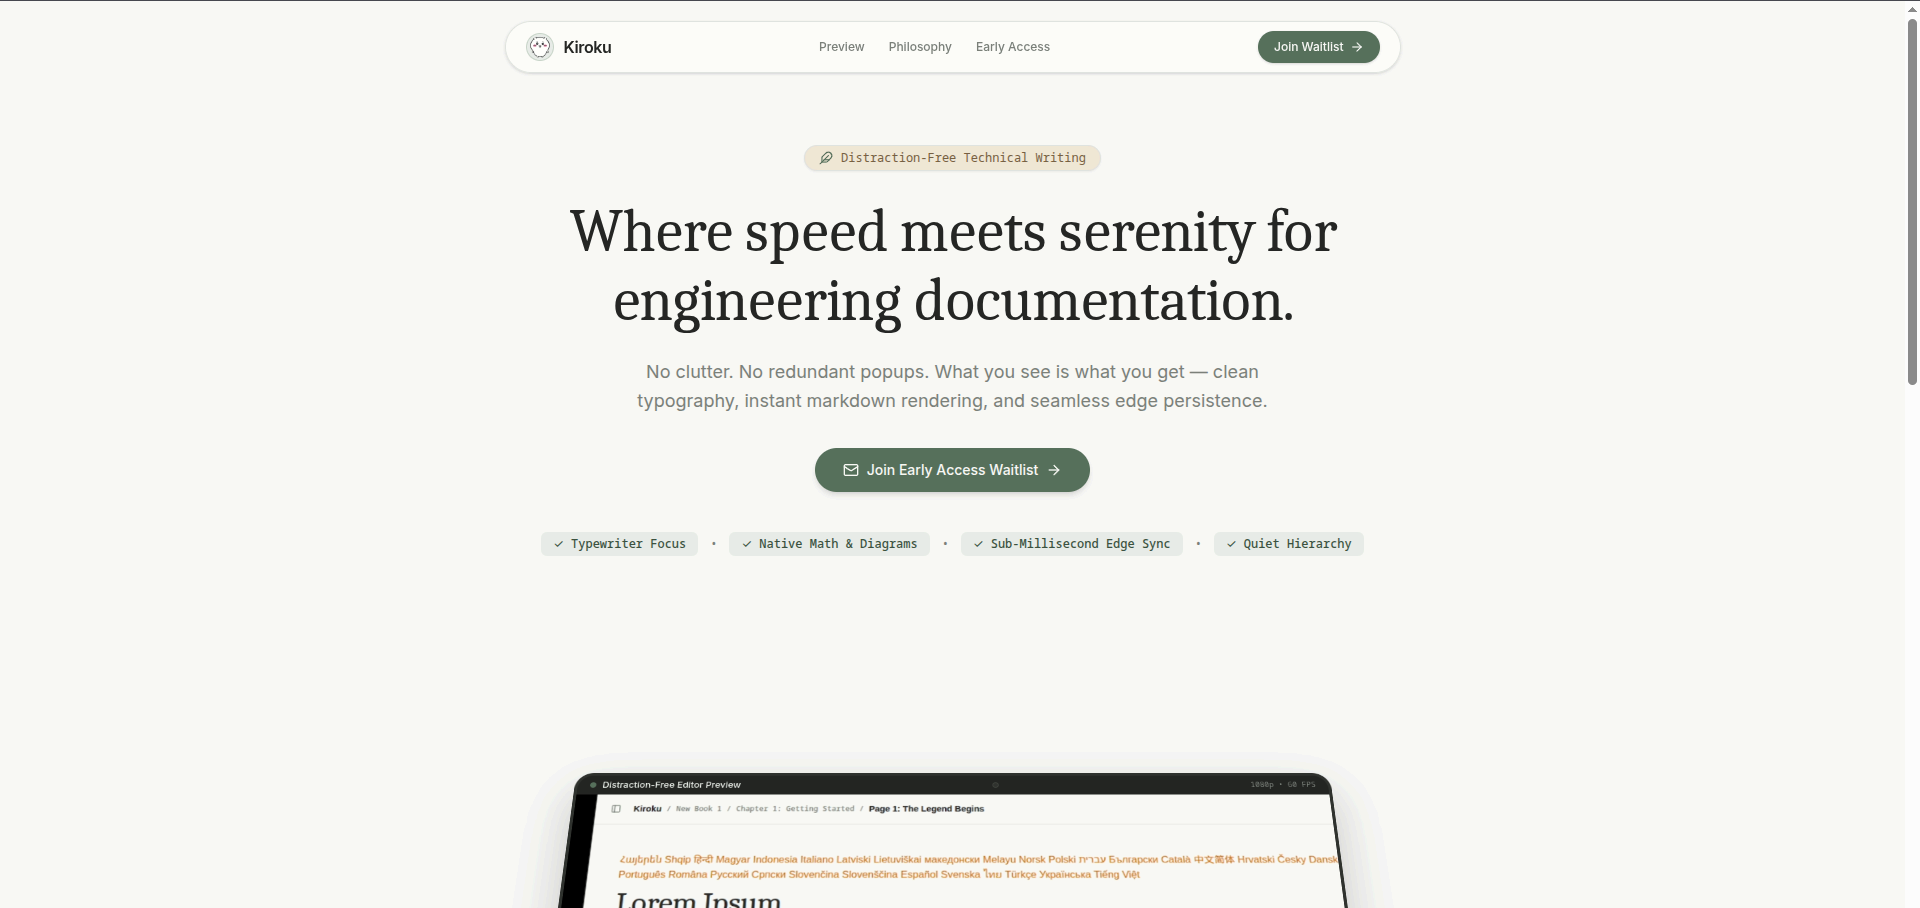
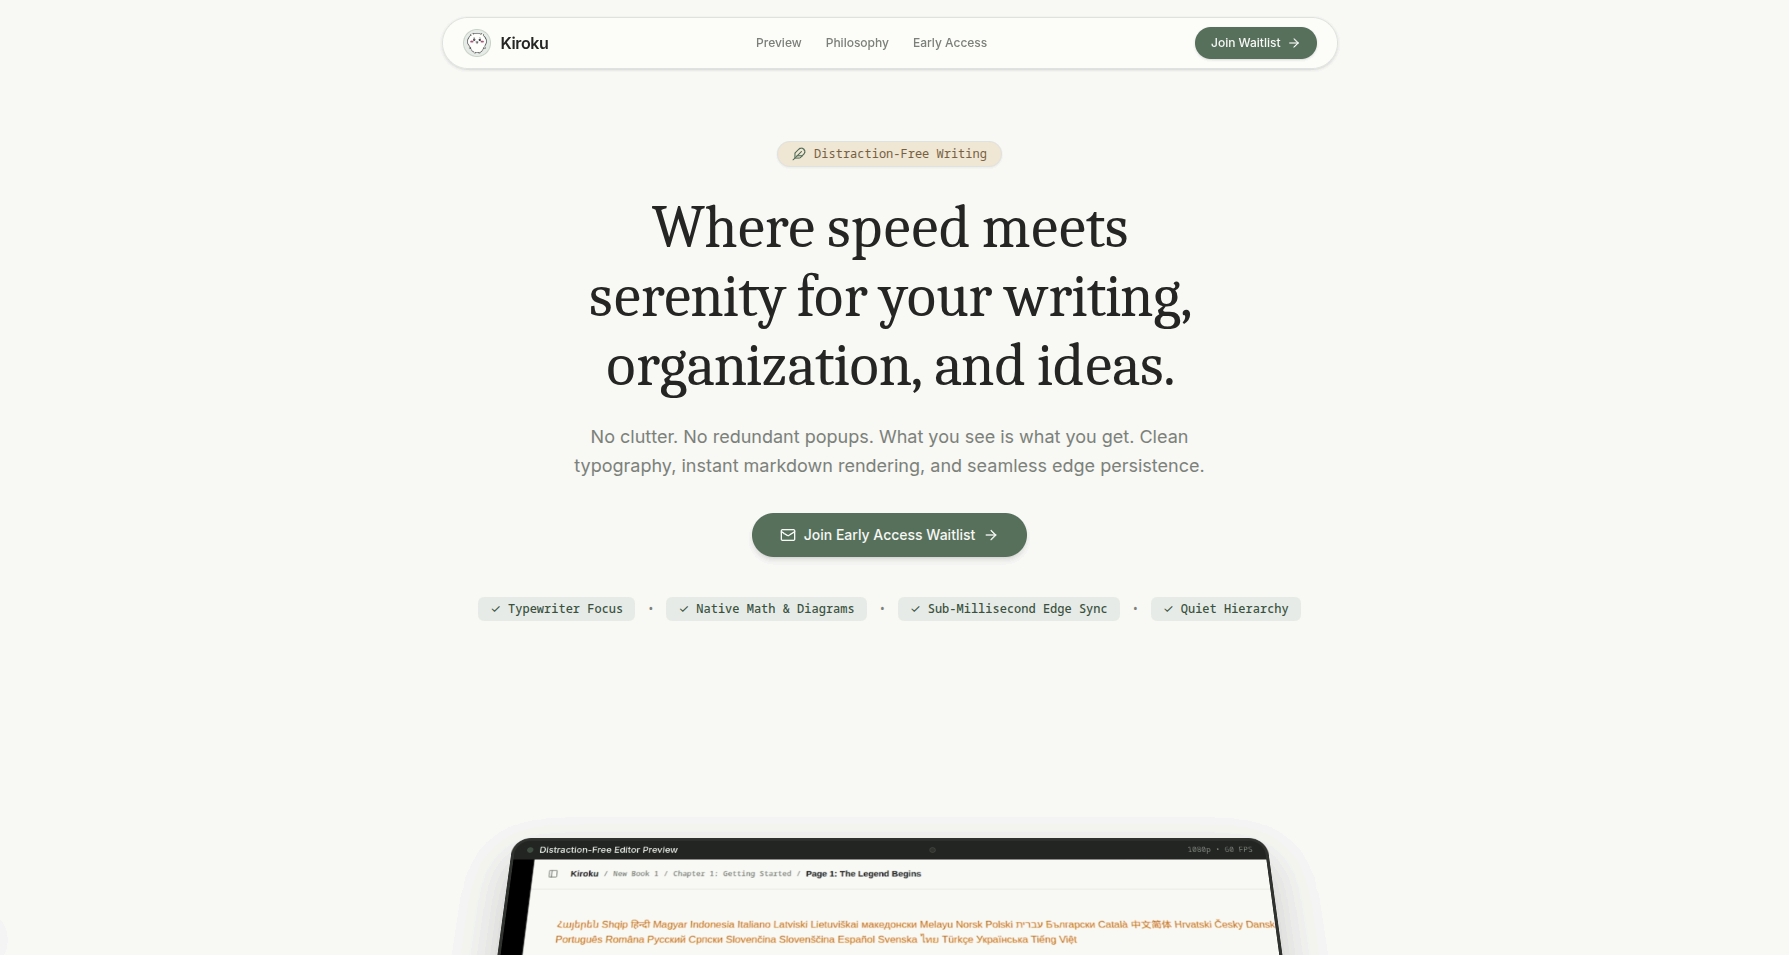
refactor: broaden hero copy, remove engineering restriction, remove em dashes, and prevent widow words

diff --git a/src/app/page.tsx b/src/app/page.tsx
@@ -109,17 +109,17 @@ export default function LandingPage() {
         {/* Eyebrow Badge */}
         <div className="inline-flex items-center gap-2 px-3.5 py-1 rounded-full bg-[#f1e7d6] text-[#765f3e] border border-[#e2e5df] text-xs font-mono mb-6 shadow-xs">
           <Feather className="size-3.5 text-[#56715b]" />
-          <span>Distraction-Free Technical Writing</span>
+          <span>Distraction-Free Writing</span>
         </div>
 
         {/* Hero Title */}
-        <h1 className="text-4xl sm:text-6xl font-medium tracking-tight leading-[1.15] text-[#20221f] max-w-3xl mb-6 font-serif">
-          Where speed meets serenity for engineering documentation.
+        <h1 className="text-4xl sm:text-6xl font-medium tracking-tight leading-[1.15] text-[#20221f] max-w-3xl mb-6 font-serif text-balance">
+          Where speed meets serenity for your writing, organization,&nbsp;and&nbsp;ideas.
         </h1>
 
         {/* Subtitle */}
-        <p className="text-base sm:text-lg text-[#7b817a] max-w-2xl leading-relaxed font-normal mb-8">
-          No clutter. No redundant popups. What you see is what you get — clean typography, instant markdown rendering, and seamless edge persistence.
+        <p className="text-base sm:text-lg text-[#7b817a] max-w-2xl leading-relaxed font-normal mb-8 text-balance">
+          No clutter. No redundant popups. What you see is what you get. Clean typography, instant markdown rendering, and seamless edge&nbsp;persistence.
         </p>
 
         {/* CTA Waitlist Button Group */}
@@ -251,11 +251,11 @@ export default function LandingPage() {
       {/* KNOWLEDGE HIERARCHY SCHEMATIC SECTION */}
       <section id="philosophy" className="py-20 px-6 max-w-5xl mx-auto bg-[#f1f3ef]/50 rounded-2xl border border-[#e2e5df] my-16 text-center">
         <span className="font-mono text-xs uppercase tracking-wider text-[#56715b] font-semibold">Clean Hierarchy</span>
-        <h2 className="text-3xl font-serif font-medium text-[#20221f] mt-2 mb-4">
+        <h2 className="text-3xl font-serif font-medium text-[#20221f] mt-2 mb-4 text-balance">
           Structured 4-Tier Knowledge Tree
         </h2>
         <p className="text-sm text-[#7b817a] max-w-xl mx-auto mb-10">
-          Simple, intuitive organization for technical books, guides, and personal knowledge bases.
+          Simple, intuitive organization for your notes, guides, books, and personal knowledge base.
         </p>
 
         {/* Tree Diagram Visual */}
@@ -293,9 +293,9 @@ export default function LandingPage() {
         <div className="p-10 rounded-2xl bg-[#56715b] text-[#f8f8f6] shadow-xl relative overflow-hidden">
           <div className="relative z-10">
             <div className="inline-flex items-center gap-1.5 px-3 py-1 rounded-full bg-[#f8f8f6]/15 text-[#f8f8f6] font-mono text-xs mb-4">
-              <span>SERENE TECHNICAL WRITING</span>
+              <span>SERENE DISTRACTION-FREE WRITING</span>
             </div>
-            <h2 className="text-3xl sm:text-4xl font-serif font-medium mb-4">
+            <h2 className="text-3xl sm:text-4xl font-serif font-medium mb-4 text-balance">
               Experience distraction-free writing.
             </h2>
             <p className="text-sm sm:text-base text-[#f8f8f6]/80 max-w-xl mx-auto mb-8">
@@ -326,7 +326,7 @@ export default function LandingPage() {
               className="size-6 rounded-full object-contain p-0.5 bg-[#e9eee8] border border-[#56715b]/20"
             />
             <span className="font-semibold text-[#20221f]">Kiroku</span>
-            <span>— built by <a href="http://ullaskunder.com/" target="_blank" rel="noopener noreferrer" className="underline hover:text-[#56715b]">ullaskunder.com</a></span>
+            <span>• built by <a href="http://ullaskunder.com/" target="_blank" rel="noopener noreferrer" className="underline hover:text-[#56715b]">ullaskunder.com</a></span>
           </div>
 
           <div className="flex items-center gap-6 font-mono text-[11px]">

diff --git a/src/app/layout.tsx b/src/app/layout.tsx
@@ -14,8 +14,8 @@ const mono = JetBrains_Mono({
 
 export const metadata: Metadata = {
   metadataBase: new URL("https://kiroku.xyz"),
-  title: "Kiroku — Minimalist Living Library for Engineering Teams",
-  description: "A minimalist, high-speed living library for engineering teams, documentation authors, and personal knowledge bases.",
+  title: "Kiroku: Minimalist Living Library",
+  description: "A minimalist, high-speed living library for writing, organization, and ideas.",
   authors: [{ name: "Ullas Kunder", url: "http://ullaskunder.com/" }],
   creator: "Ullas Kunder",
   publisher: "Ullas Kunder",
@@ -25,7 +25,7 @@ export const metadata: Metadata = {
     apple: "/ullaskunder.svg",
   },
   openGraph: {
-    title: "Kiroku — Minimalist Living Library for Engineering Teams",
+    title: "Kiroku: Minimalist Living Library",
     description: "A minimalist, high-speed living library combining fluid editing with operational stability.",
     url: "https://kiroku.xyz",
     siteName: "Kiroku",
@@ -34,7 +34,7 @@ export const metadata: Metadata = {
         url: "/og.png",
         width: 1200,
         height: 630,
-        alt: "Kiroku — Minimalist Living Library",
+        alt: "Kiroku: Minimalist Living Library",
       },
     ],
     locale: "en_US",
@@ -42,7 +42,7 @@ export const metadata: Metadata = {
   },
   twitter: {
     card: "summary_large_image",
-    title: "Kiroku — Minimalist Living Library for Engineering Teams",
+    title: "Kiroku: Minimalist Living Library",
     description: "A minimalist, high-speed living library combining fluid editing with operational stability.",
     creator: "@ullaskunder",
     images: ["/og.png"],
